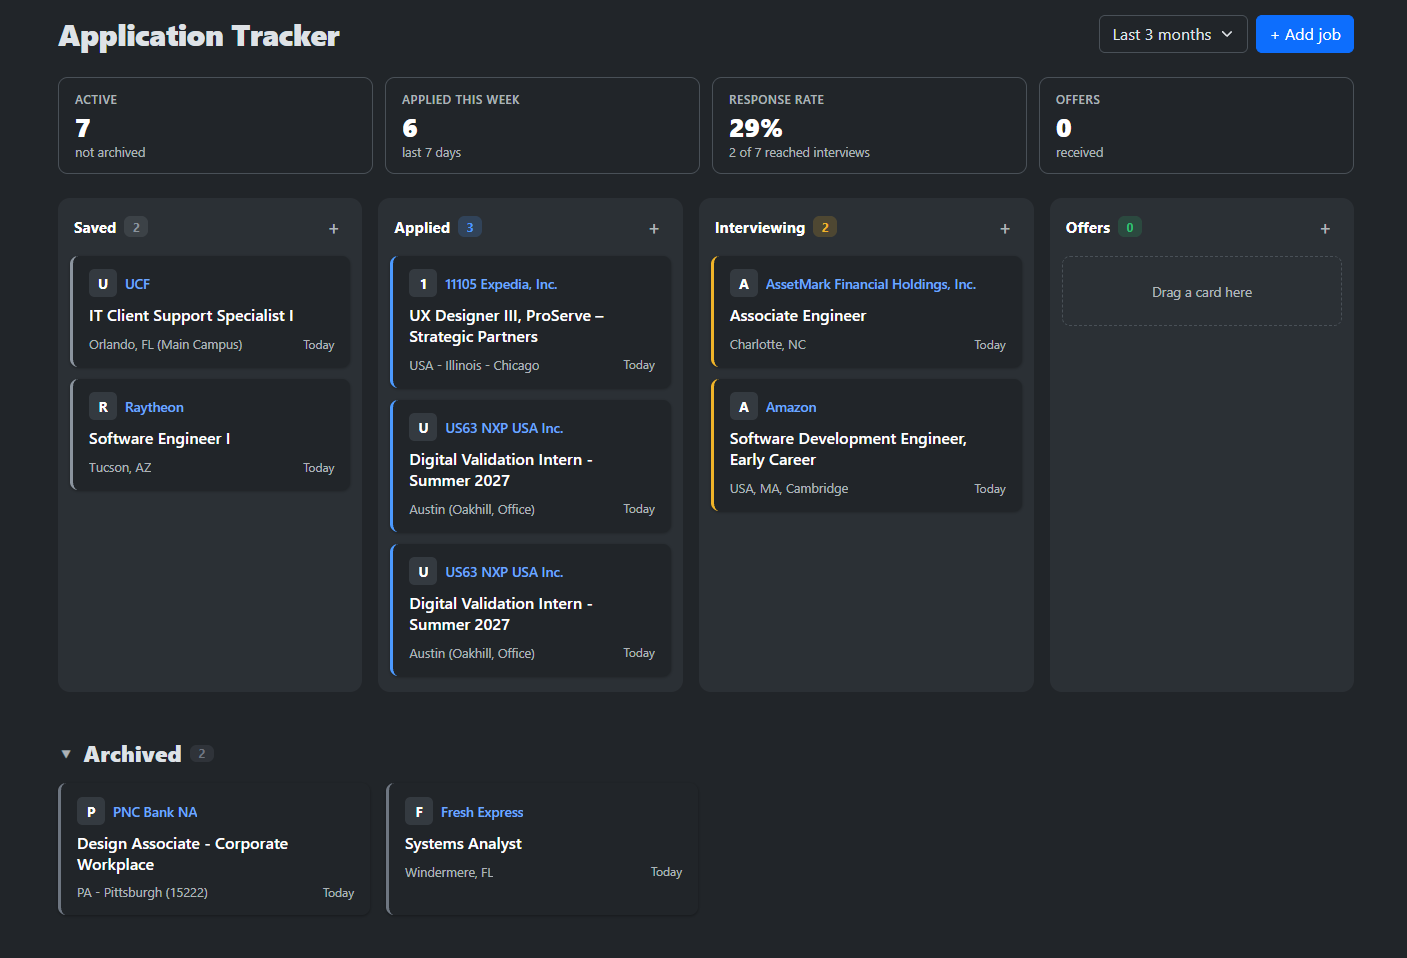
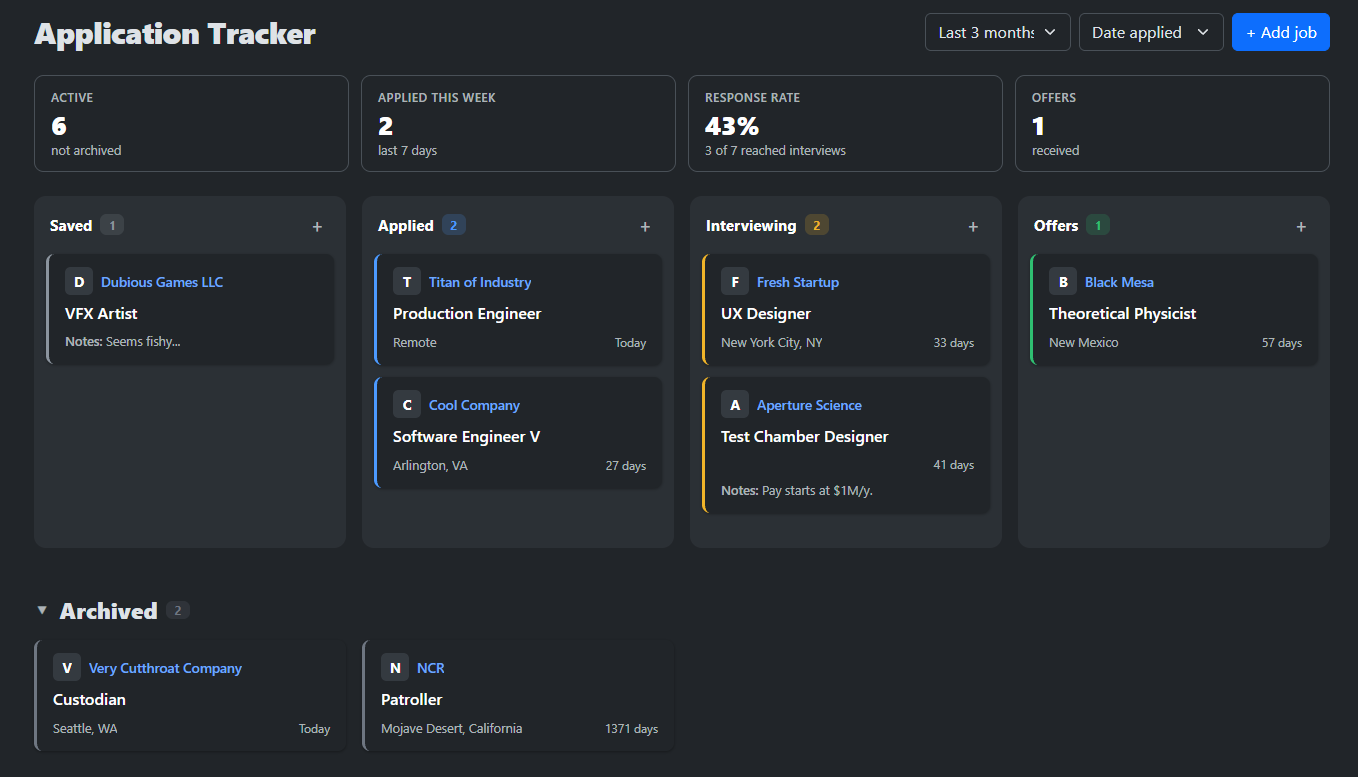
Add card sorting dropdown; add notes display in card view

diff --git a/JobTracker/wwwroot/js/job-board.js b/JobTracker/wwwroot/js/job-board.js
@@ -115,6 +115,60 @@
             card.dataset.hasResponse = "true";
     }
 
+    // ---------- Ordering ----------
+    // Same rules as JobBoardSortExtensions.ApplySort (C#); keep the two in sync. Every sort breaks ties
+    // by most recently updated, and a card that was just moved is the most recently updated of all,
+    // so it goes before any card it ties with.
+    const sort = board.dataset.sort;
+    const titleCollator = new Intl.Collator(undefined, { sensitivity: "base", numeric: true });
+    const titleOf = card => card.querySelector(".job-card-title").textContent.trim();
+
+    // Whether the just-moved card `card` belongs before `other` in the list.
+    function goesBefore(card, other) {
+        switch (sort) {
+            case "Applied":
+                // "yyyy-mm-dd" strings compare like dates; no date ("") sorts after every date.
+                return (card.dataset.appliedAt ?? "") >= (other.dataset.appliedAt ?? "");
+            case "Title":
+                return titleCollator.compare(titleOf(card), titleOf(other)) <= 0;
+            default:   // "Updated"
+                return true;
+        }
+    }
+
+    // Puts the card before the first card it belongs ahead of (or at the end of the cards).
+    // The list may also hold non-card elements (the "Drag a card here" placeholder), which are skipped.
+    function insertSorted(list, card) {
+        const others = [...list.querySelectorAll(":scope > .job-card")].filter(c => c !== card);
+        const next = others.find(other => goesBefore(card, other));
+        if (next)
+            list.insertBefore(card, next);
+        else if (others.length > 0)
+            others[others.length - 1].after(card);
+        else
+            list.prepend(card);
+    }
+
+    // ---------- Card date label ----------
+    // Same rules as JobCardViewModel.AgeLabel (C#): follows the sort, like the card order does.
+    const dayCount = days => days === 1 ? "1 day" : `${days} days`;
+
+    // "Today" or "12 days" since a "yyyy-mm-dd" date, never negative (DateDisplay.DateAge).
+    function dateAge(dateString) {
+        const today = new Date();
+        today.setHours(0, 0, 0, 0);
+        const days = Math.max(0, Math.round((today - new Date(`${dateString}T00:00`)) / 86_400_000));   // Round: DST days aren't 24h.
+        return days === 0 ? "Today" : dayCount(days);
+    }
+
+    function updateAgeLabel(card, ageLabel, statusChanged) {
+        if (sort === "Applied")
+            ageLabel.textContent = card.dataset.appliedAt ? dateAge(card.dataset.appliedAt) : "";
+        else if (sort === "Updated" && statusChanged)
+            ageLabel.textContent = "Today";   // Time in status restarts on a status change.
+        // "Title": no date label.
+    }
+
     async function saveStatus(id, status) {
         const body = new FormData();
         body.append("ID", id);
@@ -138,13 +192,12 @@
             hasResponse: card.dataset.hasResponse,
         };
 
-        // Update the UI first so the move feels instant. Lists are ordered by last update,
-        // so a moved card goes to the top of its new list.
-        if (status !== previous.status)
-            ageLabel.textContent = "Today";
+        // Update the UI first so the move feels instant. Summary rules run before placing the card,
+        // since they can change its AppliedAt (which the "Date applied" sort uses).
         setCardStatus(card, status);
         applySummaryRules(card, status);
-        listFor(status).prepend(card);
+        updateAgeLabel(card, ageLabel, status !== previous.status);
+        insertSorted(listFor(status), card);
         refreshCounts();
         card.classList.add("is-saving");
 
@@ -321,9 +374,10 @@
     archivedCollapse.addEventListener("shown.bs.collapse", () => { try { localStorage.setItem(storageKey, "true"); } catch { } });
     archivedCollapse.addEventListener("hidden.bs.collapse", () => { try { localStorage.removeItem(storageKey); } catch { } });
 
-    // Reload the board as soon as a different time range is picked.
-    const rangeForm = document.getElementById("range-form");
-    rangeForm.querySelector("select").addEventListener("change", () => rangeForm.submit());
+    // Reload the board as soon as a different time range or sort is picked.
+    const optionsForm = document.getElementById("board-options-form");
+    optionsForm.querySelectorAll("select").forEach(select =>
+        select.addEventListener("change", () => optionsForm.submit()));
 
     // Cards are links, which browsers let you drag as URLs. SortableJS uses its own pointer-based
     // dragging (forceFallback), so block the browser's native drag on cards entirely.

diff --git a/JobTracker/wwwroot/css/site.css b/JobTracker/wwwroot/css/site.css
@@ -376,6 +376,8 @@ body.is-dragging-job:not(.is-dragging-archived) #archived-list:has(.job-card-gho
   font-size: .75rem;
   color: var(--bs-secondary-color);
 }
+/* No location and no date (e.g. a Saved card sorted by title): drop the row and its margin. */
+.job-card-meta:not(:has(> :not(:empty))) { display: none !important; }
 
 /* ---------- Autofill (Create page) ---------- */
 .autofill-box {
@@ -748,6 +750,22 @@ body.is-dragging-job:not(.is-dragging-archived) #archived-list:has(.job-card-gho
   font-size: .8rem;
   color: var(--bs-secondary-color);
 }
+
+/* Notes preview, already shortened on the server. The line clamp is a backstop
+   so a narrow column never shows more than two lines. */
+.job-card-notes {
+  margin: .5rem 0 0;
+  font-size: .8rem;
+  line-height: 1.4;
+  color: var(--bs-secondary-color);
+  overflow-wrap: anywhere;   /* A long URL in the notes shouldn't widen the card. */
+  display: -webkit-box;
+  -webkit-box-orient: vertical;
+  -webkit-line-clamp: 2;
+  line-clamp: 2;
+  overflow: hidden;
+}
+.job-card-notes-label { font-weight: 600; }
 
 /* With a mouse, the menu button appears on hover or keyboard focus; on touch screens it stays visible. */
 @media (hover: hover) and (pointer: fine) {

diff --git a/JobTracker/Controllers/JobApplicationsController.cs b/JobTracker/Controllers/JobApplicationsController.cs
@@ -1,9 +1,11 @@
 using Microsoft.AspNetCore.Mvc;
 using JobTracker.Data;
+using JobTracker.Helpers;
 using Microsoft.EntityFrameworkCore;
 using JobTracker.ViewModels;
 using JobTracker.Models;
 using Microsoft.AspNetCore.Authorization;
+using Microsoft.AspNetCore.Mvc.ModelBinding;
 using System.Security.Claims;
 using JobTracker.Services;
 using JobTracker.Services.JobPostings;
@@ -29,14 +31,18 @@ public class JobApplicationsController : Controller
         readers = rd;
     }
 
-    // Shows the user's jobs as a Kanban board, most recently updated first in each column.
-    // `range` comes from the query string (e.g. ?range=LastMonth) and limits jobs by UpdatedAt.
+    // Shows the user's jobs as a Kanban board.
+    // Both options come from the query string (e.g. ?range=LastMonth&sort=Title):
+    // `range` limits jobs by UpdatedAt, `sort` orders the cards within each column.
     [HttpGet]
-    public async Task<IActionResult> Index(JobBoardRange range = JobBoardRange.Last3Months)
+    public async Task<IActionResult> Index(JobBoardRange range = JobBoardRange.Last3Months, JobBoardSort sort = JobBoardSort.Updated)
     {
         // Fall back to the default on an unknown value (e.g. a hand-edited URL).
-        if(!ModelState.IsValid || !Enum.IsDefined(range))
+        // Checked per parameter, so a bad ?sort= doesn't also reset a good ?range=.
+        if(ModelState.GetFieldValidationState(nameof(range)) == ModelValidationState.Invalid || !Enum.IsDefined(range))
             range = JobBoardRange.Last3Months;
+        if(ModelState.GetFieldValidationState(nameof(sort)) == ModelValidationState.Invalid || !Enum.IsDefined(sort))
+            sort = JobBoardSort.Updated;
 
         // Fetches the user's jobs, optionally limited to the selected time range.
         IQueryable<JobApplication> query = context.JobApplications.Where(x => x.UserID == UserID);
@@ -46,8 +52,9 @@ public class JobApplicationsController : Controller
 
         // Project straight into card view models, so SQL only selects the columns the cards use.
         // StatusSince = latest status change, or CreatedAt if the status never changed.
+        // Sorting once here is enough: splitting into columns below keeps this order.
         List<JobCardViewModel> jobApplications = await query
-            .OrderByDescending(x => x.UpdatedAt)
+            .ApplySort(sort)
             .Select(x => new JobCardViewModel
             {
                 ID = x.ID,
@@ -57,6 +64,8 @@ public class JobApplicationsController : Controller
                 StatusSince = x.StatusChanges.Max(s => (DateTime?)s.Time) ?? x.CreatedAt,
                 Location = x.Location,
                 AppliedAt = x.AppliedAt,
+                // Becomes SQL SUBSTRING, so long notes aren't sent in full just for a short preview.
+                NotesStart = x.Notes == null ? null : x.Notes.Substring(0, TextDisplay.CardPreviewFetchLength),
                 // Becomes an EXISTS subquery in SQL, so there's still a single query.
                 HasResponse = x.Status == JobApplicationStatus.Interviewing
                     || x.Status == JobApplicationStatus.OfferReceived
@@ -81,6 +90,7 @@ public class JobApplicationsController : Controller
         JobBoardViewModel board = new()
         {
             Range = range,
+            Sort = sort,
             Columns =
             [
                 Column("Saved", JobApplicationStatus.Saved),

diff --git a/JobTracker/View Models/JobBoardViewModel.cs b/JobTracker/View Models/JobBoardViewModel.cs
@@ -25,8 +25,25 @@ public class JobCardViewModel
     [DisplayName("Got a response")]
     public required bool HasResponse {get; init;}
 
+    // The start of the job's notes (the query fetches only the first characters), or null if none.
+    public string? NotesStart {get; init;}
+    [DisplayName("Notes")]
+    public string? NotesPreview => TextDisplay.Preview(NotesStart);
+
     [DisplayName("Time in current status")]
     public string StatusAgeLabel => DateDisplay.StatusAge(StatusSince);
+
+    // The card's bottom-right label follows the board's sort: time in status for "Last updated",
+    // time since applying for "Date applied" (none if never applied), and nothing for "Title".
+    public string? AgeLabel(JobBoardSort sort) => sort switch
+    {
+        JobBoardSort.Applied => AppliedAt is DateOnly applied ? DateDisplay.DateAge(applied) : null,
+        JobBoardSort.Title => null,
+        _ => StatusAgeLabel,
+    };
+
+    public static string AgeTooltip(JobBoardSort sort) =>
+        sort == JobBoardSort.Applied ? "Time since applied" : "Time in current status";
 }
 
 // The numbers above the board, computed from the cards shown (so they follow the time range).
@@ -75,6 +92,8 @@ public class JobBoardViewModel
 {
     [DisplayName("Show jobs updated in")]
     public required JobBoardRange Range {get; init;}
+    [DisplayName("Sort cards by")]
+    public required JobBoardSort Sort {get; init;}
     public required List<JobBoardColumn> Columns {get; init;}
     public required List<JobCardViewModel> Archived {get; init;}
     public required JobBoardSummary Summary {get; init;}

diff --git a/JobTracker/Helpers/TextDisplay.cs b/JobTracker/Helpers/TextDisplay.cs
@@ -1,0 +1,35 @@
+using System.Text.RegularExpressions;
+namespace JobTracker.Helpers;
+
+// Short text previews, e.g. a job's notes on its board card.
+public static partial class TextDisplay
+{
+    // Longest preview shown on a board card, ellipsis included.
+    public const int CardPreviewLength = 100;
+
+    // Characters to fetch from the database for a preview: extra room, because collapsing
+    // whitespace (blank lines, indentation) can shrink the text.
+    public const int CardPreviewFetchLength = CardPreviewLength * 2;
+
+    // One line of text, at most `maxLength` characters: line breaks and runs of spaces become
+    // single spaces, and longer text is cut at a word boundary (when there's one nearby) with "…".
+    public static string? Preview(string? text, int maxLength = CardPreviewLength)
+    {
+        if (string.IsNullOrWhiteSpace(text))
+            return null;
+
+        string flat = Whitespace().Replace(text, " ").Trim();
+        if (flat.Length <= maxLength)
+            return flat;
+
+        string cut = flat[..(maxLength - 1)];   // Leave room for the ellipsis.
+        int lastSpace = cut.LastIndexOf(' ');
+        if (lastSpace >= maxLength / 2)          // Don't drop half the preview to avoid splitting one long word.
+            cut = cut[..lastSpace];
+        return cut.TrimEnd() + "…";
+    }
+
+    // Source-generated regex: compiled at build time instead of at runtime.
+    [GeneratedRegex(@"\s+")]
+    private static partial Regex Whitespace();
+}

diff --git a/JobTracker.Tests/Unit/TextDisplayTests.cs b/JobTracker.Tests/Unit/TextDisplayTests.cs
@@ -1,0 +1,47 @@
+using JobTracker.Helpers;
+namespace JobTracker.Tests.Unit;
+
+public class TextDisplayTests
+{
+    [Theory]
+    [InlineData(null)]
+    [InlineData("")]
+    [InlineData("  \n\t ")]
+    public void PreviewIsNullForBlankText(string? text)
+    {
+        Assert.Null(TextDisplay.Preview(text));
+    }
+
+    [Fact]
+    public void ShortTextIsKeptButFlattenedToOneLine()
+    {
+        Assert.Equal("Recruiter call Tuesday. Ask about salary.",
+            TextDisplay.Preview("  Recruiter call Tuesday.\n\n   Ask about salary.  "));
+    }
+
+    [Fact]
+    public void TextAtExactlyTheLimitIsNotCut()
+    {
+        string text = new('a', TextDisplay.CardPreviewLength);
+        Assert.Equal(text, TextDisplay.Preview(text));
+    }
+
+    [Fact]
+    public void LongTextIsCutAtAWordWithEllipsis()
+    {
+        string text = string.Join(' ', Enumerable.Repeat("word", 50));   // 249 characters.
+        string preview = TextDisplay.Preview(text)!;
+
+        Assert.True(preview.Length <= TextDisplay.CardPreviewLength);
+        Assert.EndsWith("word…", preview);   // Ends on a whole word, not "wo…".
+    }
+
+    [Fact]
+    public void OneLongWordIsCutMidWord()
+    {
+        string preview = TextDisplay.Preview(new string('a', 300))!;
+
+        Assert.Equal(TextDisplay.CardPreviewLength, preview.Length);
+        Assert.EndsWith("a…", preview);
+    }
+}

diff --git a/JobTracker/View Models/JobBoardSort.cs b/JobTracker/View Models/JobBoardSort.cs
@@ -1,0 +1,29 @@
+using System.ComponentModel.DataAnnotations;
+using JobTracker.Models;
+namespace JobTracker.ViewModels;
+
+// How cards are ordered within each board list. Names appear in the URL (?sort=Applied)
+// and in job-board.js, which places moved cards using the same rules.
+public enum JobBoardSort
+{
+    [Display(Name = "Last updated")] Updated,
+    [Display(Name = "Date applied")] Applied,
+    [Display(Name = "Title (A–Z)")]  Title,
+}
+
+public static class JobBoardSortExtensions
+{
+    // Every sort falls back to most recently updated first, so ties have a stable order.
+    public static IQueryable<JobApplication> ApplySort(this IQueryable<JobApplication> query, JobBoardSort sort) => sort switch
+    {
+        // Newest application first; jobs never applied to (Saved) go last.
+        JobBoardSort.Applied => query
+            .OrderBy(x => x.AppliedAt == null)
+            .ThenByDescending(x => x.AppliedAt)
+            .ThenByDescending(x => x.UpdatedAt),
+        JobBoardSort.Title => query
+            .OrderBy(x => x.Title)
+            .ThenByDescending(x => x.UpdatedAt),
+        _ => query.OrderByDescending(x => x.UpdatedAt),
+    };
+}

diff --git a/JobTracker/Helpers/DateDisplay.cs b/JobTracker/Helpers/DateDisplay.cs
@@ -17,6 +17,14 @@ public static class DateDisplay
         return days == 0 ? "Today" : DayCount(days);
     }
 
+    // "Today" or "12 days" since a calendar date (e.g. AppliedAt), never negative.
+    // job-board.js has the same rule for cards it moves; keep the two in sync.
+    public static string DateAge(DateOnly date)
+    {
+        int days = Math.Max(0, DateOnly.FromDateTime(DateTime.Today).DayNumber - date.DayNumber);
+        return days == 0 ? "Today" : DayCount(days);
+    }
+
     // Relative text for a UTC timestamp: "just now", "5 minutes ago", "yesterday", "3 weeks ago".
     public static string Ago(DateTime utc)
     {

diff --git a/JobTracker/Program.cs b/JobTracker/Program.cs
@@ -9,7 +9,8 @@ var builder = WebApplication.CreateBuilder(args);
 // Add services to the container.
 builder.Services.AddControllersWithViews();
 builder.Services.AddDbContext<AppDbContext>(options =>
-    options.UseSqlServer(builder.Configuration.GetConnectionString("DefaultConnection")));
+    options.UseSqlServer(builder.Configuration.GetConnectionString("DefaultConnection"), 
+                        sql => sql.EnableRetryOnFailure()));
 builder.Services.AddDefaultIdentity<IdentityUser>(options =>
         options.SignIn.RequireConfirmedAccount = false)
     .AddEntityFrameworkStores<AppDbContext>();

diff --git a/JobTracker/Data/AppDbContext.cs b/JobTracker/Data/AppDbContext.cs
@@ -13,7 +13,6 @@ public class AppDbContext : IdentityDbContext
     public DbSet<Company> Companies => Set<Company>();
     public DbSet<JobApplication> JobApplications => Set<JobApplication>();
     public DbSet<JobApplicationStatusChange> StatusChanges => Set<JobApplicationStatusChange>();
-    public DbSet<IdentityUser> AspNetUsers => Set<IdentityUser>();
 
     // Settings.
     protected override void OnModelCreating(ModelBuilder modelBuilder) {

diff --git a/README.md b/README.md
@@ -9,6 +9,8 @@ You can check out a live deployment of the project [here](https://job-tracker-bw
 ## Features
 
 - **Kanban board.** Drag cards between stages (Saved, Applied, Interviewing, Offer Received, Archived), filtered by how recently each job was updated.
+- **Sorting.** Order the cards in each column by last update, date applied, or title. Each card's date label follows the sort: time in current status, time since applying, or none for title.
+- **Notes.** Keep free-form notes on each application. The start of the notes shows on its card.
 - **Summary stats.** Active applications, applications this week, response rate, and offers.
 - **Autofill from a link.** Paste a Greenhouse or Workday posting URL to fill in the title, company, location, and posted date.
 - **Status history.** Each application records when its status changed.
